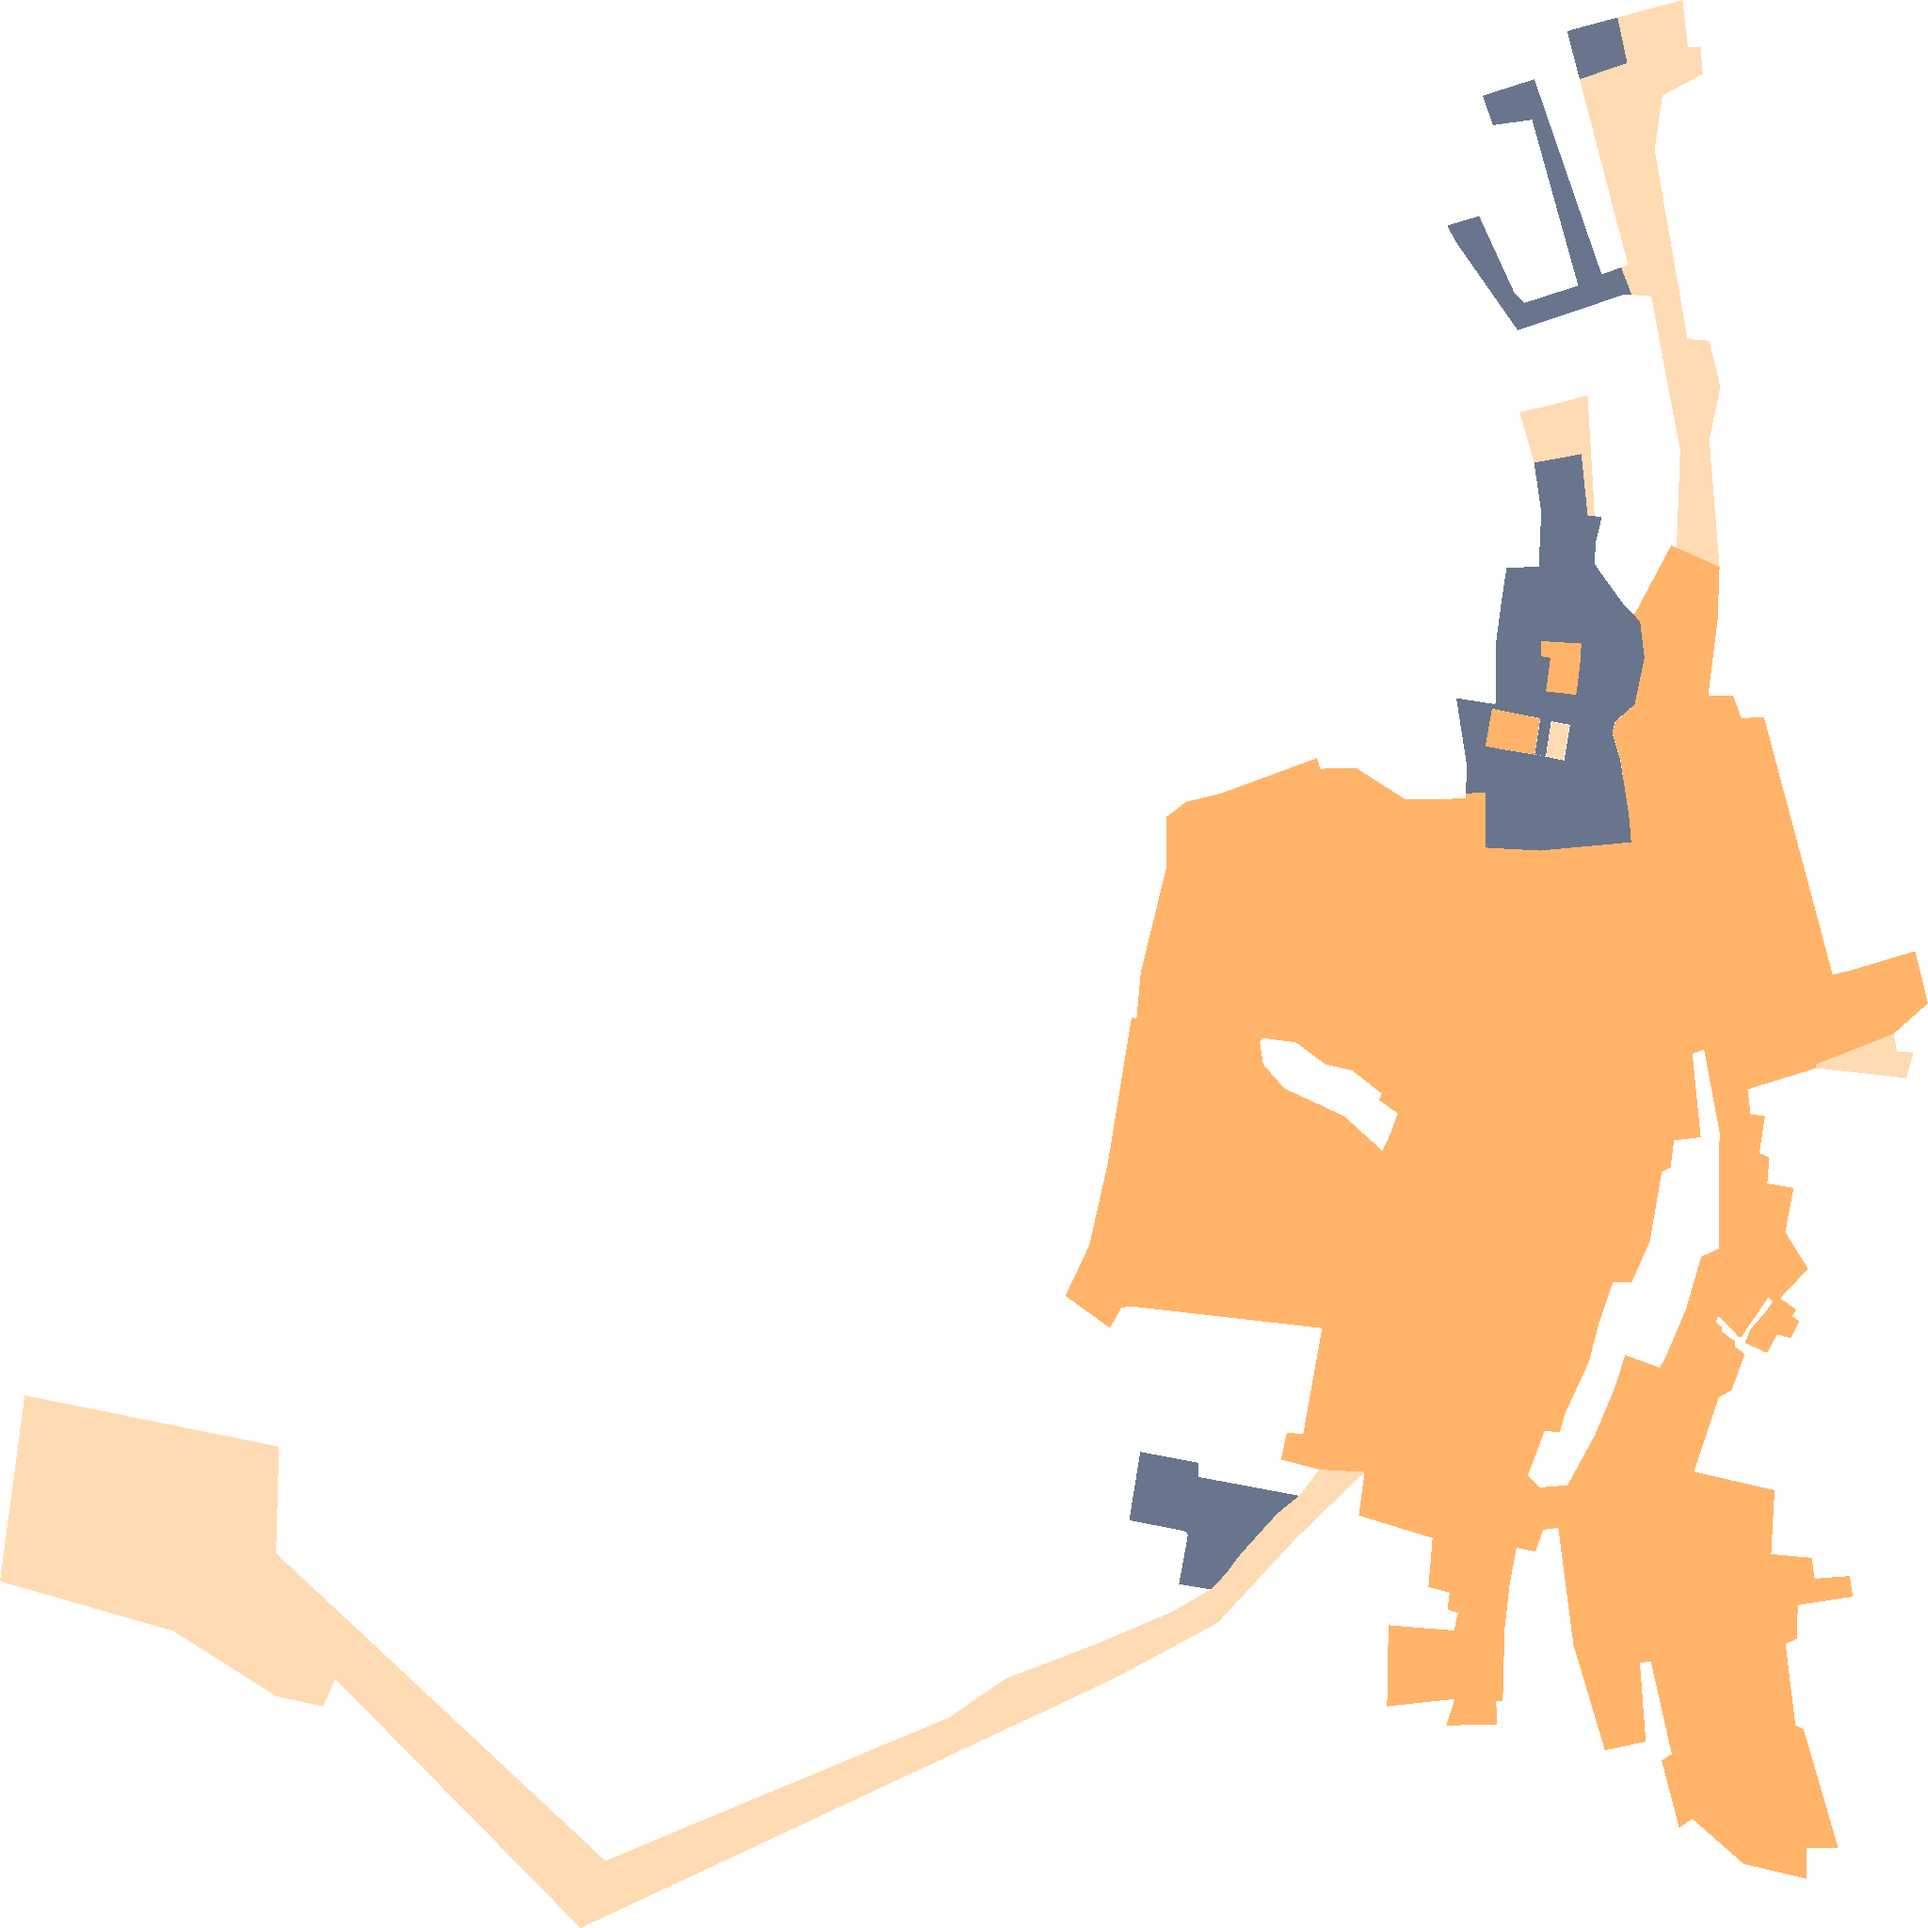
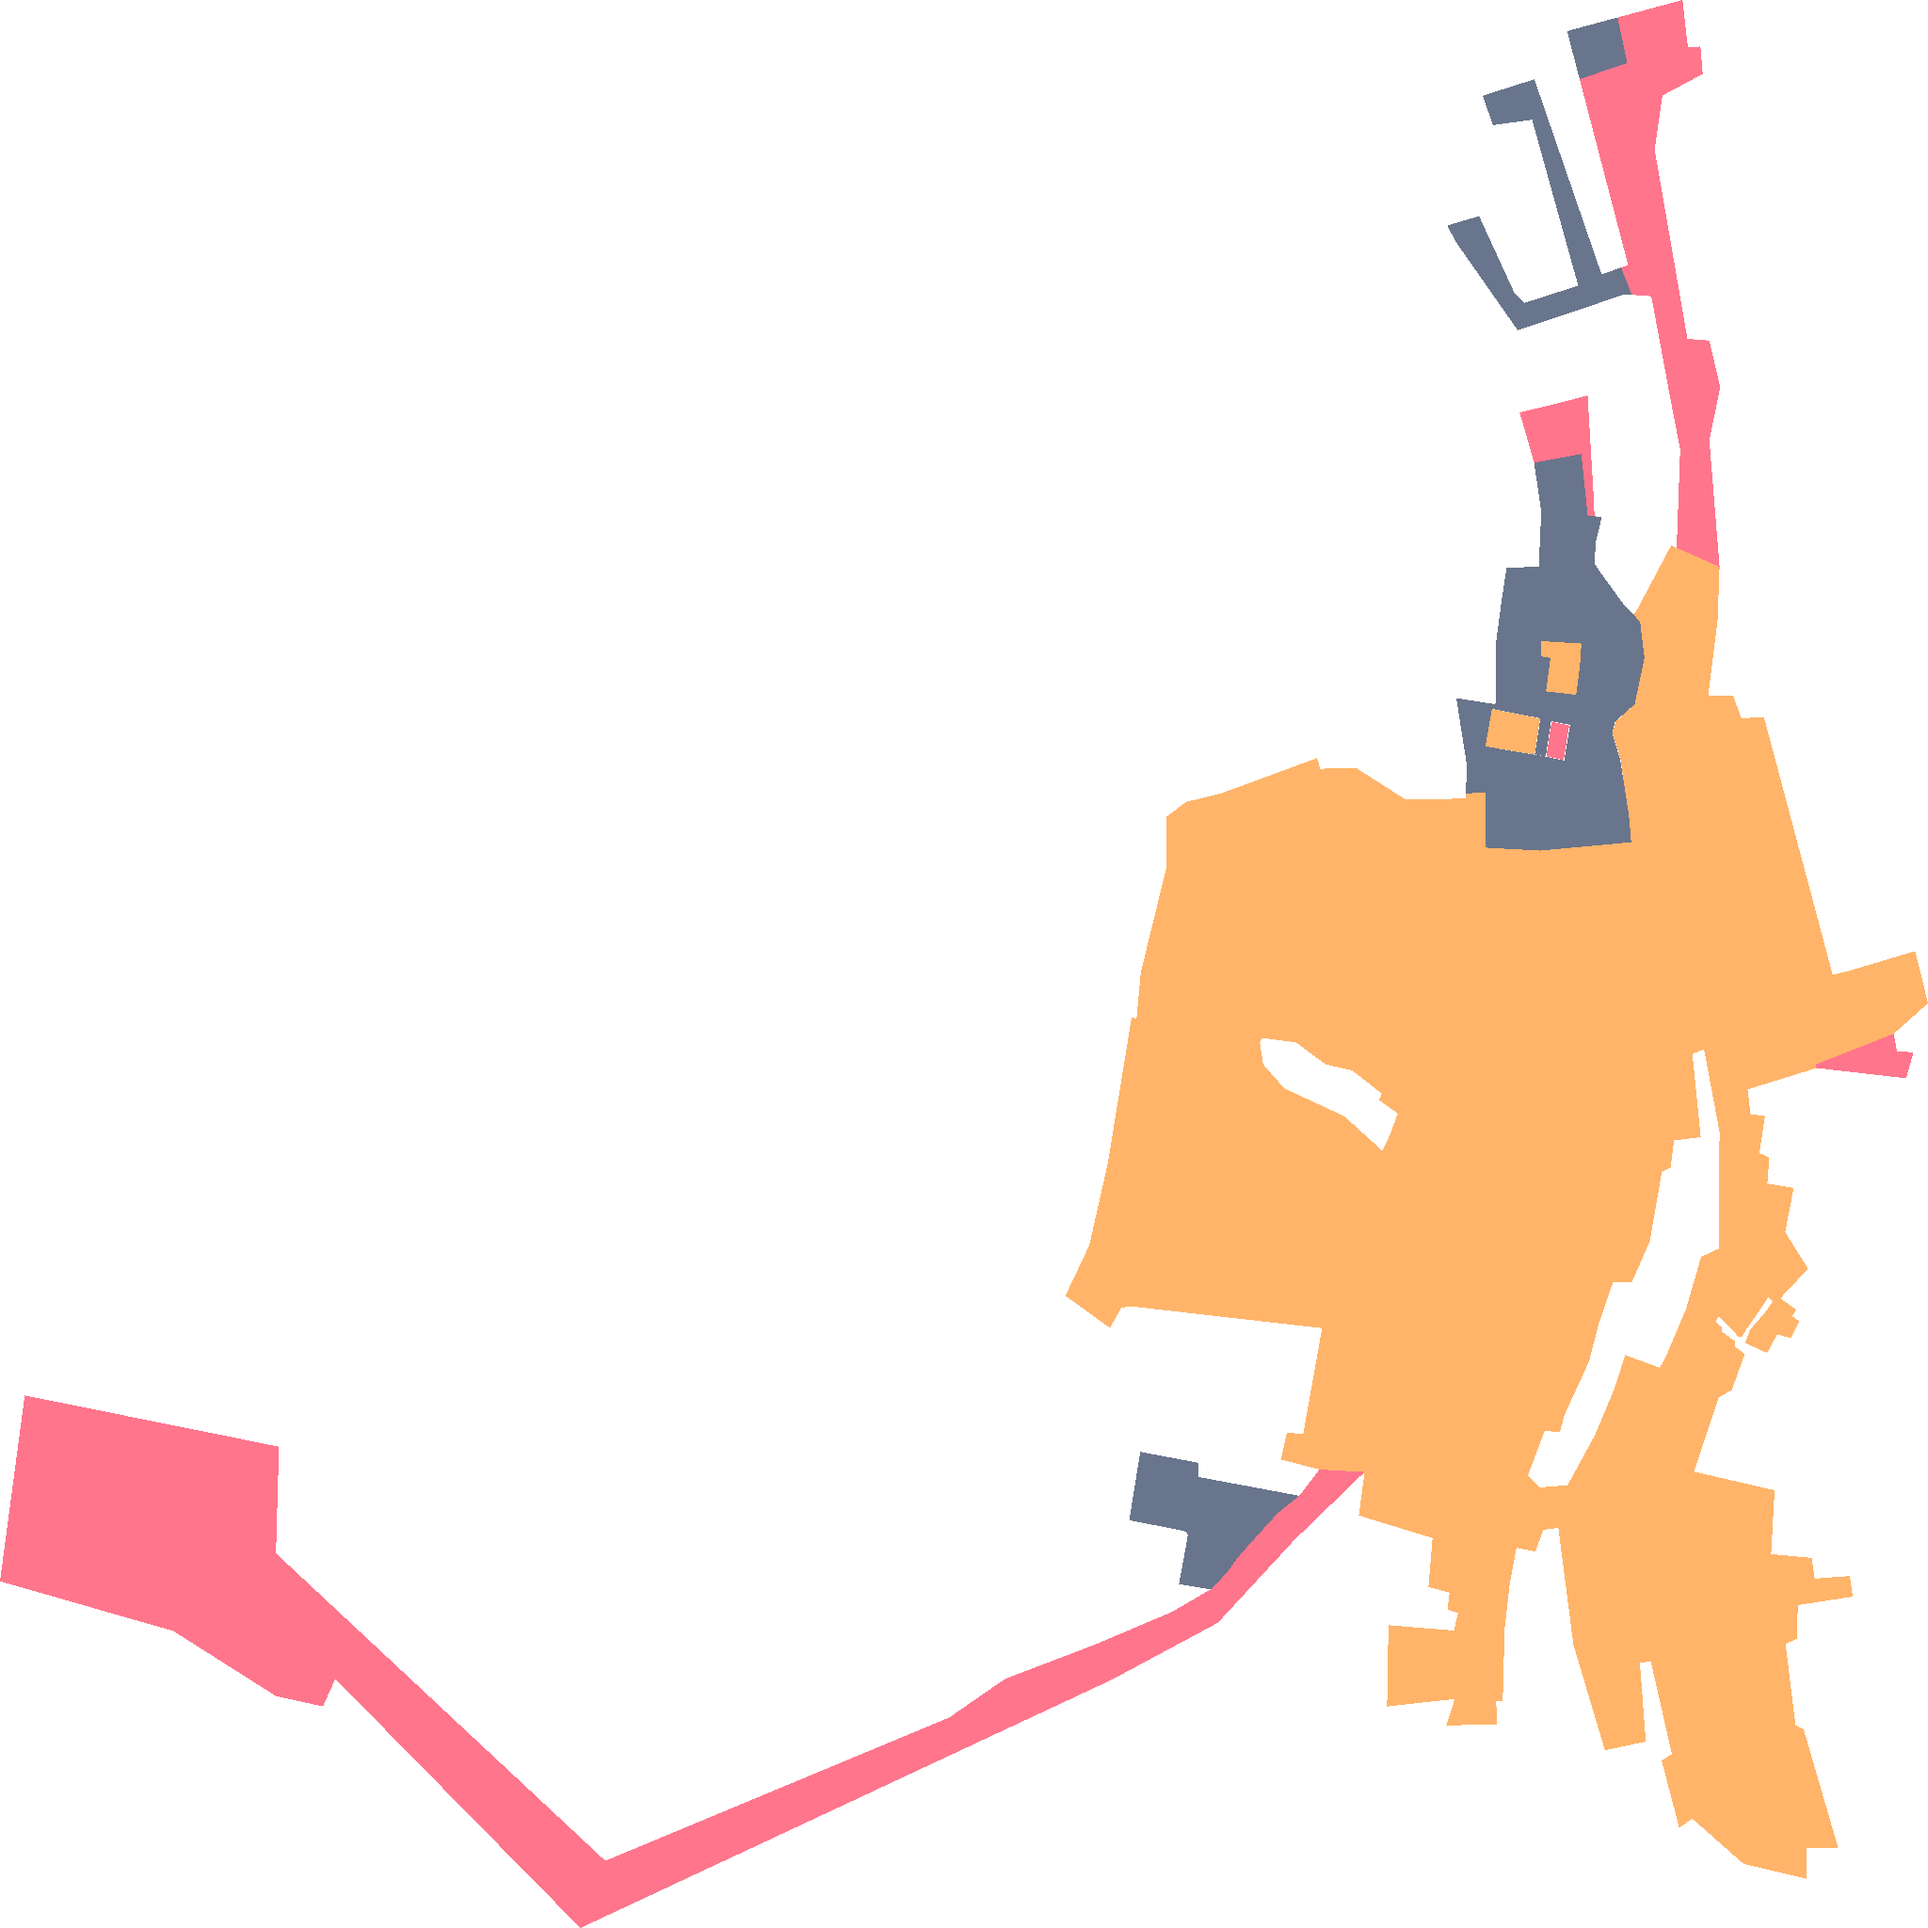
Karte p_131

diff --git a/p_131.html b/p_131.html
@@ -128,9 +128,8 @@
 <body>
     <div id="map"></div>
     <div id="legend">
-        <div><span style="display:inline-block; width:20px; height:10px; background:#FF7F00; margin-right:5px;"></span>Ausbauphase 1: Glasfasernetz vorhanden oder geplant</div>
+        <div><span style="display:inline-block; width:20px; height:10px; background:#FF7F00; margin-right:5px;"></span>Ausbauphase 1: Ausbau bei ausreichender Nachfrage</div>
         <div><span style="display:inline-block;width:20px; height:10px; background:#00143C; margin-right:5px;"></span>Ausbauphase 2: Interessenbekundung möglich</div>
-        <div><span style="display:inline-block;width:20px; height:10px; background:#FFC17D; margin-right:5px;"></span>Ausbauphase 3: Gefördertes Ausbaugebiet </div>
     </div>
     <script>
     const bounds = [[49.183372853, 8.902588364], [49.206096162, 8.9408351]];
